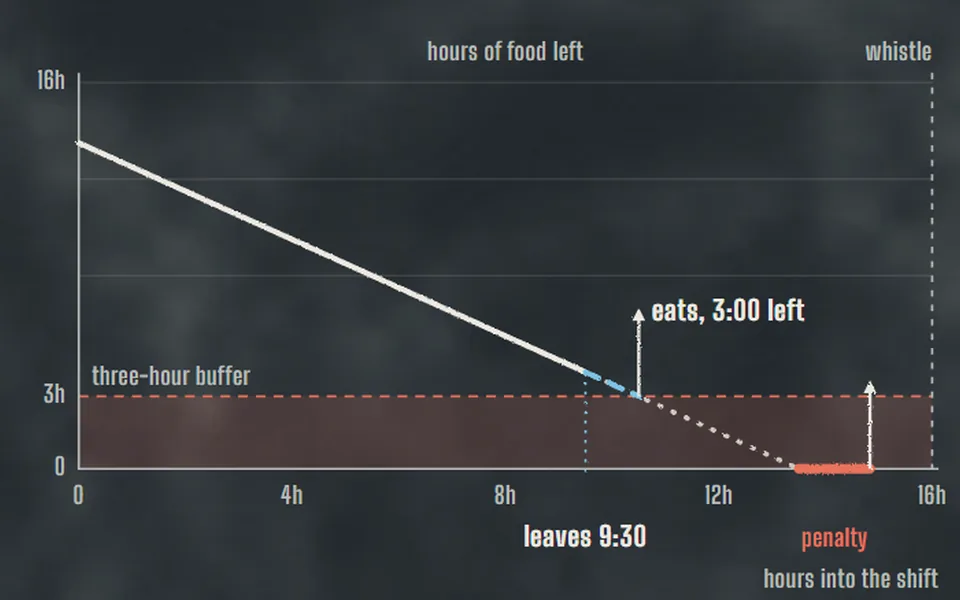
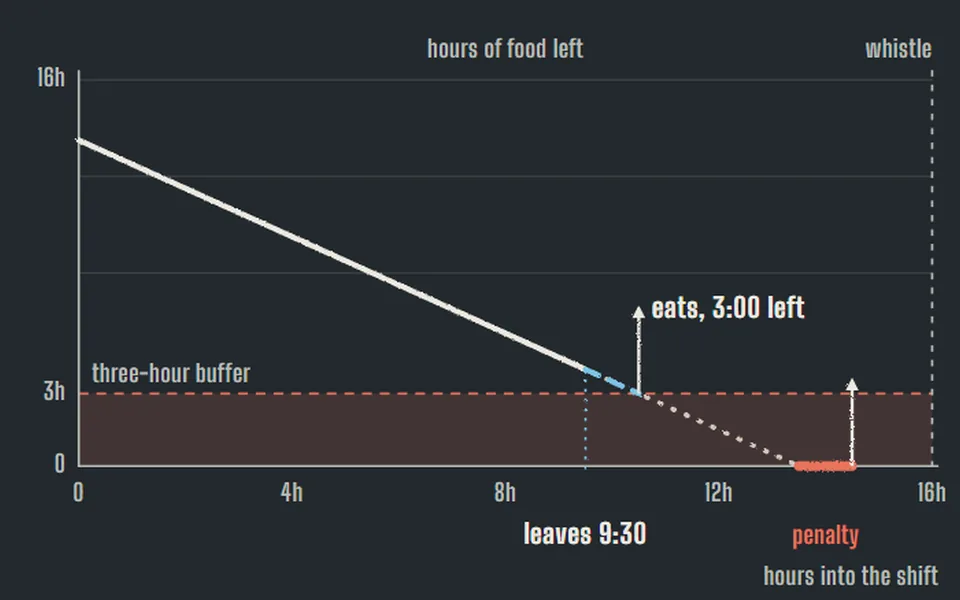
Hungry Pathing's picture without the chalk texture; Persistent Work Areas shows two pinned areas
Hungry Pathing's site dropped its slate texture, so its picture is recaptured plain. card-art.py
gains SETUP steps: Persistent Work Areas pins the Farmhouse as well, so two outlines show.

diff --git a/scripts/card-art.py b/scripts/card-art.py
@@ -15,6 +15,15 @@ SITE = "https://timbermods.github.io/"
 # card id -> (page, CSS selector of the signature element, or None to use the clip rectangle)
 # cards taken from their site's dark mode (Kyler, 2026-09-24: Timber Together's darker map reads better)
 DARK = {"timber-together"}
+# extra CSS for a capture: Hungry Pathing's board without its slate texture (it read as smoke)
+CSS = {"hungry-pathing": ".board, .shift { background-image: none !important; }"}
+# steps run on the page before the capture: Persistent Work Areas pins the Farmhouse too, so two outlines show
+SETUP = {"persistent-work-areas": """
+    document.querySelector('svg.map g.bld[aria-label="Select Farmhouse"]').dispatchEvent(new MouseEvent('click', {bubbles: true}));
+    document.querySelector('.ui-toggle').click();
+    document.querySelector('[data-deselect]').click();
+    document.activeElement && document.activeElement.blur();
+"""}
 JOBS = {
     "beaverbuddies-stability-fork": (SITE + "BeaverBuddies-Stability-Fork/", ".coop-map", None),
     "timber-together": (SITE + "TimberTogether/", ".hero figure", None),
@@ -33,6 +42,10 @@ with sync_playwright() as p:
         url, sel, clip = JOBS[card]
         page = browser.new_page(viewport={"width": 1440, "height": 900}, color_scheme="dark" if card in DARK else "light", reduced_motion="reduce", device_scale_factor=1.5)
         page.goto(url, wait_until="networkidle")
+        if card in SETUP:
+            page.evaluate(SETUP[card])
+        if card in CSS:
+            page.add_style_tag(content=CSS[card])
         page.wait_for_timeout(600)
         png = page.locator(sel).first.screenshot() if sel else page.screenshot(clip=clip)
         page.close()
